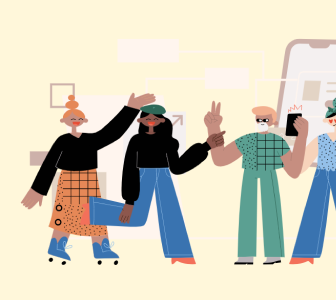
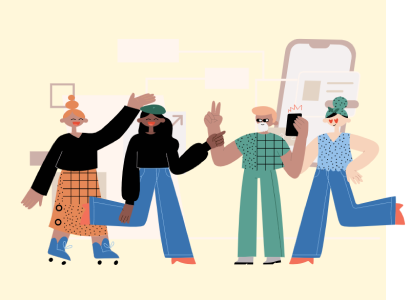
resources

diff --git a/components/home-page/Resources.jsx b/components/home-page/Resources.jsx
@@ -6,6 +6,7 @@ import coolkids from '../../public/images/coolkids.png';
 const resources = [
   {
     image: IllustrationInstalling,
+    bg: '#0FD7D7',
     category: 'General',
     time: '10',
     title: 'Curated blend of the best learning resources',
@@ -14,6 +15,7 @@ const resources = [
   },
   {
     image: coolkids,
+    bg: '#FFF7DA',
     category: 'COMMUNITY',
     time: '10',
     title: 'The best communities for you',
@@ -23,12 +25,12 @@ const resources = [
 ];
 const Resources = () => {
   return (
-    <section className="pl-[120px] pt-[72px] border-t md:flex items-center gap-[60px]">
+    <section className="pl-5 xl:pl-[120px] py-[72px] border-t md:flex items-center gap-5 lg:gap-[60px]">
       {/* Left side */}
       <div className="">
-        <p className="text-accent-2">RESOURCES</p>
-        <h4 className="font-[700] text-[40px] text-[#292627]">Insights</h4>
-        <p className="text-lg leading-6 mt-4 text-[#5D5658] max-w-[450px]">
+        <p className="text-accent-2 text-xs lg:text-base">RESOURCES</p>
+        <h4 className="font-[700] text-2xl lg:text-[40px] text-[#292627]">Insights</h4>
+        <p className="text-sm lg:text-lg leading-6 mt-4 text-[#5D5658] lg:w-[450px]">
           Unlock new insights by diving into our curated collection of articles,
           resources, and communities
         </p>
@@ -37,10 +39,10 @@ const Resources = () => {
         </div>
       </div>
       {/* right side */}
-      <div className="flex items-center gap-10 overflow-x-auto">
+      <div className=" flex items-center overflow-x-scroll">
         {resources.map(resource => (
-          <div className="w-[418px] h-[564px] px-4 pt-4 pb-8 border rounded-[20px]">
-            <Image src={resource.image} alt="Installing Illustration" />
+          <div className="mr-4 md:mr-10 w-[294px] sm:w-[418px] h-[564px] px-3 md:px-4 pt-3 md:pt-4 pb-8 border rounded-[20px]">
+            <Image className='' style={{background: `${resource.bg}`}} src={resource.image} alt="Installing Illustration" />
             <div className="mt-4">
               <div className="flex items-center gap-4 mb-4">
                 <div className="w-max px-2 py-1 rounded-[10px] uppercase text-white bg-accent-2 font-700 text-[10px]">
@@ -48,10 +50,10 @@ const Resources = () => {
                 </div>
                 <p className="text-[10px] text-secondary">{resource.time} mins read</p>
               </div>
-              <p className="text-xl leading-6 font-[700] w-[386px] mb-3">
+              <p className="text-base md:text-xl leading-6 font-[700] w-[270px] lg:w-[386px] mb-3">
                 {resource.title}
               </p>
-              <p className="text-sm w-fit text-secondary leading-6">
+              <p className="text-sm md:text-sm w-[270px] md:w-[386px] text-secondary leading-6">
                 {resource.content}
               </p>
             </div>
